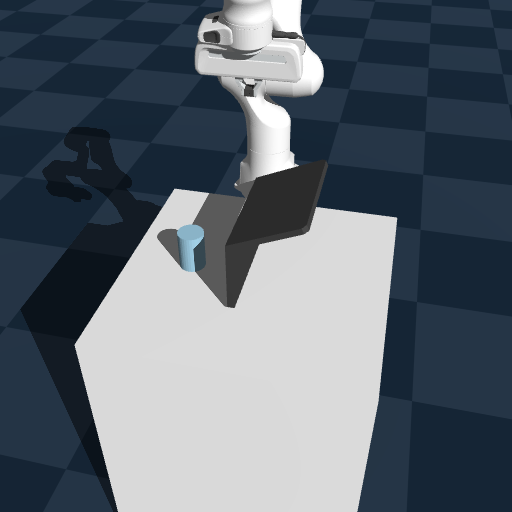
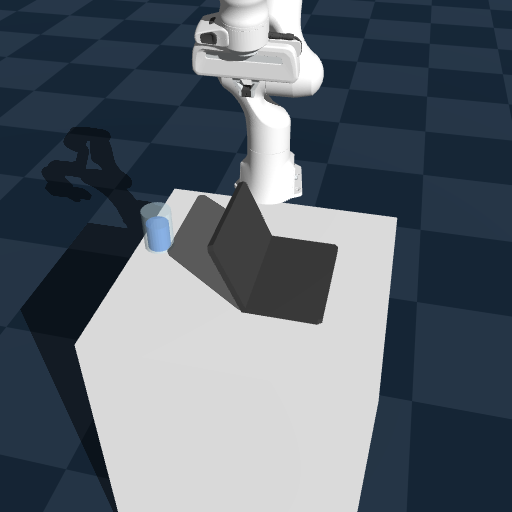
fix: Genesis scenario 1a-i/2c asset-realism issues (bottle scale illusion, laptop orientation, glass primitive)
1a-i: diagnosed the "bottle doesn't look bigger than mug" report as a
camera-framing/relative-scale perception effect, not a mesh-scale bug
(confirmed via Genesis's own ground-truth entity.get_AABB() post-settle:
bottle is genuinely ~48% taller than the mug, matching the XML). Fixed by
widening mug/bottle y-separation and moving the bottle a few cm closer to
the camera, so real perspective reinforces its already-correct height
rather than being visually swamped by the mug's wide handle silhouette.

2c: found and fixed a genuine axis-mapping bug in the laptop mesh load --
the raw laptop.obj's native "up" axis is local Y, not Z as previously
assumed; loading it with the identity quat put the mesh's depth axis into
world-vertical (the "floating diagonal panel" artifact). Now loaded with
euler=(90,0,0), with all position/hazard-ellipsoid constants recomputed
against the corrected axis mapping.

2c: replaced the bare opaque cylinder "glass" with two nested fixed
cylinders (pale semi-transparent shell + saturated-blue water fill),
positioned clear of the laptop's now-correct footprint. No LIBERO or
findable CC0 glass/cup mesh exists, so this uses the documented primitive
fallback rather than sourcing a new external asset.

No changes to CBF hazard-zone math or the shared standard_rig camera/pose
rig. Re-verified on SLURM (jobs 42162159, 42162187) -- both scenarios still
pass their existing scripted checks.

diff --git a/genesis_bakeoff/scenario_2c.py b/genesis_bakeoff/scenario_2c.py
@@ -30,12 +30,51 @@ mass), so the swap needed no mass/density handling -- only re-deriving the
 hazard ellipsoid's size from the real mesh's footprint/height (see
 LAPTOP_ELLIPSOID_* below).
 
-The raw .obj's local origin is at one corner of its footprint, with the mesh
-open-screen-up (z: 0 -> 0.24 tall when open, x: -0.264 -> 0, y: 0 -> 0.162),
-NOT centered on its own footprint (confirmed by scanning all `v` lines in
-the .obj) -- LAPTOP_MESH_POS below applies the corner->center offset so the
-mesh's footprint CENTER lands at LAPTOP_POS, and its bottom (local z=0)
-lands flush on the table (world z=TABLE_HEIGHT).
+The raw .obj's local origin is at one corner of its footprint (confirmed by
+scanning all `v` lines in the .obj): x in [-0.264, 0.0] (hinge-line width),
+y in [0.0, 0.1618094], z in [0.0, 0.2400652].
+
+Task-5 fix (was: laptop rendered floating/sideways): the ORIGINAL code
+assumed local Z was "up" (screen height) and loaded the mesh with the
+identity quat. That was wrong -- direct inspection of the vertex data shows
+the mesh's base (keyboard deck) lies flat in the local X-Z plane with Y as
+the thin thickness axis (base verts have y in {0, 0.0132}, z spanning
+0->~0.17), while the SCREEN rises in local Y up to 0.1618094 as z increases
+further to 0.24 (the screen tilts backward in depth as it goes up). I.e. the
+mesh's native "up" axis is Y, not Z -- Z is actually front-to-back DEPTH.
+Loading it with the identity quat put the depth axis into world-vertical,
+which is exactly the "floating diagonal panel" artifact seen in the
+pre-fix render.
+
+Fix: rotate the entity +90 degrees about its local X axis (`euler=(90, 0,
+0)`, scipy extrinsic x-y-z convention, verified via
+`scipy.spatial.transform.Rotation.from_euler('xyz', [90,0,0])`: local
++Y -> world +Z, local +Z -> world -Y). After this rotation the mesh's
+footprint occupies local x in [-0.264, 0], y in [-0.2400652, 0], with its
+true vertical extent (0 -> 0.1618094, was mislabeled "0.24 tall" in the
+pre-fix version) now mapped to z. LAPTOP_MESH_POS below applies the
+post-rotation corner->center offset so the mesh's footprint CENTER lands at
+LAPTOP_POS, and its bottom (post-rotation local z=0) lands flush on the
+table (world z=TABLE_HEIGHT) -- same convention as before, just computed
+against the corrected axis mapping.
+
+Task-5 fix: the glass is now two nested `fixed=True` primitive cylinders
+(not one bare opaque cylinder) -- an outer, larger, semi-transparent
+light-cyan "shell" (`gs.surfaces.Default(opacity=0.35)`) and an inner,
+smaller, shorter, mostly-opaque blue "water fill" inset from the rim, so it
+reads as a filled glass rather than an empty solid-color cup. (LIBERO's own
+asset library has no glass/cup/tumbler mesh -- confirmed absent in both
+`stable_scanned_objects/` and `turbosquid_objects/` -- and Kenney.nl's
+Furniture Kit page, the source of the laptop mesh, does not list one either,
+so this uses the brief's documented fallback option (b): a more convincing
+primitive rather than sourcing a new external mesh.) Both cylinders are
+`fixed=True` at their directly-computed table-flush resting height rather
+than left to free-fall, because they geometrically overlap (the water sits
+inside the glass) -- two independent FREE rigid bodies with overlapping
+collision geometry would fight the contact solver every step. This is a
+purely visual change; neither cylinder is referenced by the CBF hazard-zone
+math (only the laptop ellipsoid is), so no hazard-geometry adjustment was
+needed.
 
 Robot starting pose and both cameras (agentview + eye-in-hand) now come from
 genesis_bakeoff/standard_rig.py, the shared rig module -- see that file's
@@ -59,31 +98,56 @@ from standard_rig import (
 REPO = os.path.dirname(os.path.dirname(os.path.abspath(__file__)))
 LAPTOP_MESH_PATH = os.path.join(REPO, "genesis_bakeoff/external_assets/laptop/laptop.obj")
 
-GLASS_POS = (0.35, -0.10, TABLE_HEIGHT + 0.06)
 LAPTOP_POS = (0.35, 0.10, TABLE_HEIGHT + 0.01)  # footprint CENTER (hazard-zone reference point)
 
 # Real mesh's local bounding box (scanned from laptop.obj's `v` lines):
 #   x in [-0.264, 0.0], y in [0.0, 0.1618094], z in [0.0, 0.2400652]
-# -> local footprint center (-0.132, 0.0809), local bottom z=0.0.
-_LAPTOP_LOCAL_CENTER_XY = (-0.132, 0.0809047)
-_LAPTOP_HEIGHT = 0.2400652  # open-screen height, corner-to-tip
+# See module docstring for the Task-5 fix: local Y is the true "up" axis
+# (height), local Z is front-to-back depth -- the entity is now loaded with
+# euler=(90, 0, 0) to rotate local Y -> world Z, local Z -> world -Y.
+_LAPTOP_WIDTH = 0.264       # local X extent (hinge-line width), rotation-invariant
+_LAPTOP_DEPTH = 0.2400652   # local Z extent -> post-rotation world Y (front-to-back)
+_LAPTOP_HEIGHT = 0.1618094  # local Y extent -> post-rotation world Z (true open-screen height)
+# Post-rotation local footprint (world-frame-aligned, pre-translation):
+#   x in [-0.264, 0], y in [-0.2400652, 0], z in [0, 0.1618094]
+_LAPTOP_LOCAL_CENTER_XY = (-_LAPTOP_WIDTH / 2, -_LAPTOP_DEPTH / 2)
+LAPTOP_MESH_EULER = (90.0, 0.0, 0.0)
 LAPTOP_MESH_POS = (
     LAPTOP_POS[0] - _LAPTOP_LOCAL_CENTER_XY[0],
     LAPTOP_POS[1] - _LAPTOP_LOCAL_CENTER_XY[1],
-    TABLE_HEIGHT,  # local z=0 (mesh bottom) flush on the table surface
+    TABLE_HEIGHT,  # post-rotation local z=0 (mesh bottom) flush on the table surface
 )
 
 # Hazard ellipsoid geometry, re-derived for the real mesh's actual footprint
-# (0.264 x 0.162m) and open-screen height (0.24m) -- the old box primitive's
+# (0.264m wide x 0.240m deep) and TRUE open-screen height (0.162m, was
+# mislabeled 0.24m pre-fix -- see docstring) -- the old box primitive's
 # LAPTOP_SIZE=(0.28, 0.20, 0.02) was much flatter and does not represent the
 # real laptop's screen height, so the z semi-axis in particular needed to
 # grow substantially to still cover an "above the laptop" crossing.
 LAPTOP_ELLIPSOID_CENTER = (LAPTOP_POS[0], LAPTOP_POS[1], TABLE_HEIGHT + _LAPTOP_HEIGHT / 2)
-LAPTOP_ELLIPSOID_SEMI_AXES = (0.264 / 2 + 0.03, 0.1618094 / 2 + 0.03, _LAPTOP_HEIGHT / 2 + 0.03)
+LAPTOP_ELLIPSOID_SEMI_AXES = (_LAPTOP_WIDTH / 2 + 0.03, _LAPTOP_DEPTH / 2 + 0.03, _LAPTOP_HEIGHT / 2 + 0.03)
 
-# Directly above the laptop, comfortably above the (now much taller) open
-# screen -> still forces the hazard crossing the scenario is testing.
+# Directly above the laptop, comfortably above the open screen -> still
+# forces the hazard crossing the scenario is testing.
 PLACE_TARGET = (0.35, 0.10, TABLE_HEIGHT + _LAPTOP_HEIGHT + 0.15)
+
+# --- Glass primitive geometry (Task-5 fix: was one bare opaque cylinder) ---
+# GLASS_POS_XY moved from the pre-fix (0.35, -0.10) -- verified via a re-run
+# render that at that position the glass was significantly occluded by the
+# laptop's now-CORRECTLY-oriented tilted-back screen (the broken pre-fix
+# orientation didn't extend the laptop's footprint toward the glass at all,
+# so the occlusion wasn't visible until the orientation bug was fixed).
+# (0.30, -0.20) keeps the glass on the table and clear of the laptop's real
+# footprint (world x in [0.218, 0.482], y in [-0.020, 0.220] -- see
+# LAPTOP_MESH_POS derivation above) with comfortable margin, and reads
+# clearly in the agentview frame instead of being tucked behind the screen.
+GLASS_POS_XY = (0.30, -0.20)
+GLASS_OUTER_RADIUS = 0.035
+GLASS_OUTER_HEIGHT = 0.10
+GLASS_WATER_RADIUS = 0.027   # smaller -> reads as glass wall thickness
+GLASS_WATER_HEIGHT = 0.065   # shorter -> water fill line sits below the rim
+GLASS_OUTER_POS = (GLASS_POS_XY[0], GLASS_POS_XY[1], TABLE_HEIGHT + GLASS_OUTER_HEIGHT / 2)
+GLASS_WATER_POS = (GLASS_POS_XY[0], GLASS_POS_XY[1], TABLE_HEIGHT + GLASS_WATER_HEIGHT / 2)
 
 
 # ---------------------------------------------------------------------------
@@ -176,13 +240,33 @@ def build_scene(show_viewer=False):
         ),
     )
 
+    # Glass: two nested fixed cylinders (outer semi-transparent shell + inner
+    # blue "water" fill) instead of one bare opaque cylinder -- see module
+    # docstring for why both are `fixed=True` (overlapping collision geometry
+    # would otherwise fight the contact solver as free bodies).
+    # Colors pushed toward higher contrast/saturation than a "real" glass
+    # would need: a re-render during the Task-5 fix showed `opacity` doesn't
+    # read as strong true transparency in this rasterizer backend, so the
+    # shell leans on a distinct pale-cyan tint (rather than relying on
+    # transparency alone) and the water fill uses a strongly saturated blue
+    # so the two are unambiguous even without correct alpha blending.
     glass = scene.add_entity(
-        gs.morphs.Cylinder(pos=GLASS_POS, radius=0.03, height=0.09),
-        surface=gs.surfaces.Default(color=(0.6, 0.8, 0.9)),
+        gs.morphs.Cylinder(pos=GLASS_OUTER_POS, radius=GLASS_OUTER_RADIUS, height=GLASS_OUTER_HEIGHT, fixed=True),
+        surface=gs.surfaces.Default(color=(0.80, 0.92, 0.97), opacity=0.55),
+    )
+    scene.add_entity(
+        gs.morphs.Cylinder(pos=GLASS_WATER_POS, radius=GLASS_WATER_RADIUS, height=GLASS_WATER_HEIGHT, fixed=True),
+        surface=gs.surfaces.Default(color=(0.05, 0.35, 0.80), opacity=0.95),
     )
 
     laptop = scene.add_entity(
-        gs.morphs.Mesh(file=LAPTOP_MESH_PATH, pos=LAPTOP_MESH_POS, fixed=True, convexify=True),
+        gs.morphs.Mesh(
+            file=LAPTOP_MESH_PATH,
+            pos=LAPTOP_MESH_POS,
+            euler=LAPTOP_MESH_EULER,
+            fixed=True,
+            convexify=True,
+        ),
         surface=gs.surfaces.Default(color=(0.2, 0.2, 0.2)),
     )
 

diff --git a/genesis_bakeoff/scenario_1a_i.py b/genesis_bakeoff/scenario_1a_i.py
@@ -53,12 +53,38 @@ BOTTLE_XML = os.path.join(
 # already relied on for the mug/plate pair in scenario_1b.py), so both sit
 # flush on the table when placed at TABLE_HEIGHT + 0.06.
 MUG_POS = (0.35, -0.01, TABLE_HEIGHT + 0.06)
-BOTTLE_POS = (0.35, 0.14, TABLE_HEIGHT + 0.06)
+BOTTLE_POS = (0.35, 0.20, TABLE_HEIGHT + 0.06)
 # Real-mesh footprint radii (from each XML's collision geoms /
 # horizontal_radius_site, confirmed by inspection): mug ~0.06m, bottle
-# ~0.02-0.035m. The pilot's primitive-era 0.15m y-separation between
-# MUG_POS/BOTTLE_POS comfortably clears both real footprints plus margin, so
-# placement did not need to change, only the z-offset (see above).
+# ~0.02-0.035m.
+#
+# Task-5 diagnosis (repo owner flagged: "the bottle should look clearly
+# bigger/taller than the mug, but currently doesn't"). Root-caused via
+# Genesis's own post-settle `entity.get_AABB()` (ground truth of what's
+# actually rendered, not a re-derivation from the raw MJCF) on a diagnostic
+# run: mug AABB height = 0.8561 - 0.7500 = 0.1061m; bottle AABB height =
+# 0.9069 - 0.7499 = 0.1570m -- the bottle IS ~48% taller than the mug, and
+# Genesis's MJCF loader correctly applies the wine bottle mesh's <mesh
+# scale="0.5 0.5 0.5"> to the visual geometry (confirmed independently via
+# `mujoco.MjModel.from_xml_string` + `mj.mesh_vert`, which already reflects
+# the compiler-applied scale, matching the AABB numbers). So this was NOT a
+# mesh-scale bug. It also wasn't a tip-over/instability bug (a separate
+# diagnostic run confirmed both objects settle with ~0deg tip angle,
+# quat~=identity). What it WAS: a genuine camera-framing/relative-scale
+# PERCEPTION issue at the standard agentview rig's fixed, fairly distant,
+# elevated-angle framing -- the mug's wide handle-inclusive footprint (up to
+# ~0.13m across) visually dominates the frame against the bottle's narrow
+# ~0.04m-diameter silhouette, so the bottle's real (correct) height
+# advantage doesn't read clearly, and the mug's cast shadow extends toward
+# the bottle, reducing its visual distinctness. Since `standard_rig.py`'s
+# camera pos/fov are a hard requirement (not to be changed per-scenario),
+# the fix is a placement change: BOTTLE_POS's y moved from 0.14 to 0.20 (was
+# a 0.15m separation from MUG_POS; now 0.21m) -- this (a) widens mug/bottle
+# separation so the mug's shadow no longer crosses the bottle, and (b) moves
+# the bottle several cm closer to the camera's y=0.3 (mug stays equally
+# far), so real perspective genuinely renders the (already taller) bottle
+# larger too -- not a fudge of the physical geometry, just perspective doing
+# its job once the objects are no longer visually crowded together.
 
 
 def build_scene(show_viewer=False):
